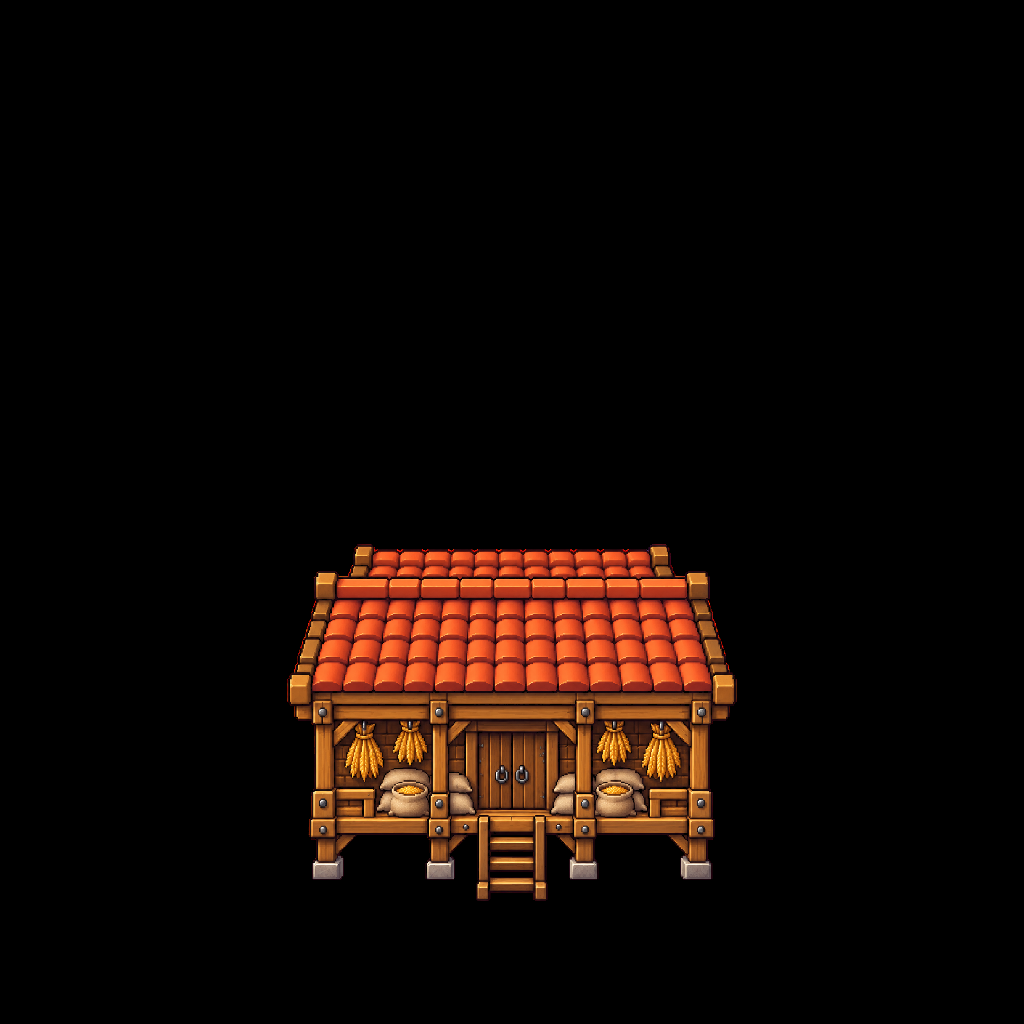
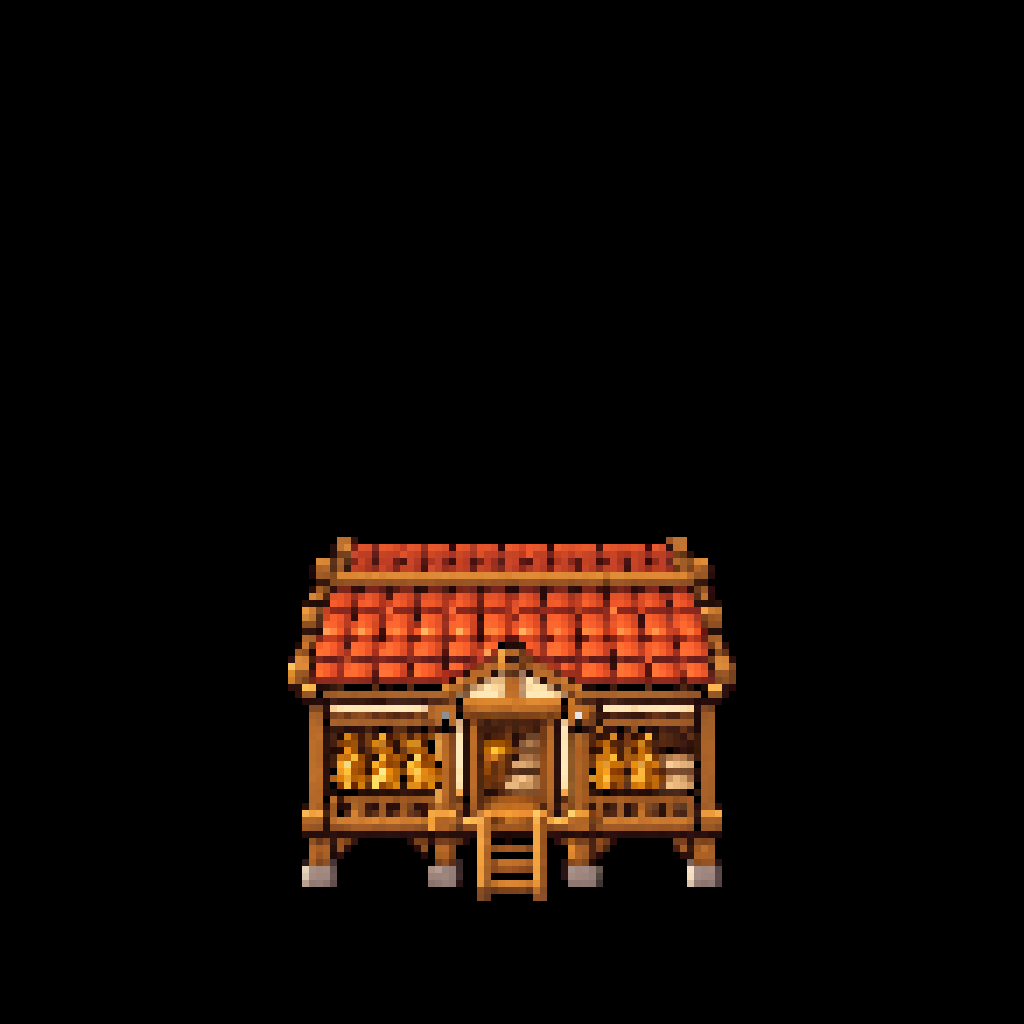
docs(art): 45-degree downward view; redraw granary and windmill

Changed region(s): [[0.2812, 0.5, 0.7188, 0.875]]

diff --git a/docs/art-review/g3e/buildings/make_prompts.py b/docs/art-review/g3e/buildings/make_prompts.py
@@ -39,7 +39,7 @@ GROUPS = {
         ('building_wheat_scarecrow', 'Bù Nhìn Gác (scarecrow watch tower, tower, TALL building but at most 520 px)',
          'a short wooden watch platform with a small straw roof and a big straw-hat scarecrow standing on it holding a sling, ladder at the front, sacks on the rail.'),
         ('building_wheat_windmill', 'Cối Xay Gió (windmill, economy)',
-         'a stone-and-timber windmill whose body is straight and upright, seen from a HIGH viewpoint looking DOWN: the viewer clearly sees the TOP of the windmill, i.e. the upper surface of its large rounded thatched cap/dome (a visible oval-ish roof plane with rows of straw, seen from above), not just its side profile and not a pointed tip seen sideways. Four cloth-sail blades are mounted on the front of the cap, frontal to the viewer (not turned). A door at the front center, a short stone base and flour sacks. Keep the facade straight-on; do not rotate or tilt the body.'),
+         'a stone-and-timber windmill whose body is straight and upright, seen with the camera pitched 45 degrees DOWN: the viewer clearly sees the TOP of the windmill, i.e. the upper surface of its large rounded thatched cap/dome (a visible oval-ish roof plane with rows of straw, seen from above), not just its side profile and not a pointed tip seen sideways. Four cloth-sail blades are mounted on the front of the cap, frontal to the viewer (not turned). A door at the front center, a short stone base and flour sacks. Keep the facade straight-on; do not rotate or tilt the body.'),
     ]),
 }
 

diff --git a/docs/art-review/g3e/buildings/wheat/building_wheat_windmill/prompt.md b/docs/art-review/g3e/buildings/wheat/building_wheat_windmill/prompt.md
@@ -4,7 +4,9 @@ BẮT BUỘC TRƯỚC KHI VẼ: mở và đọc `docs/ART_STYLE.md` — mục "G
 
 Create one isolated pixel-art building for Crowned Kingdoms: Cối Xay Gió (windmill, economy).
 Use the attached approved harvester house as the camera and style reference.
-STRICT straight-on FRONT VIEW with a high downward viewpoint, orthographic game-art styling.
+STRICT straight-on FRONT VIEW with the camera pitched 45 degrees DOWN (a 45-degree downward oblique view),
+orthographic game-art styling: the roof plane (or the top of a tower or windmill) and the front facade
+appear about EQUALLY tall because of the 45-degree pitch.
 Front facade faces the viewer exactly; horizontal beams, sills, foundation and eaves stay horizontal;
 vertical posts stay vertical; both front corners have the same height. No visible side walls.
 NO diagonal building rotation, NO isometric view, NO diamond ground base.
@@ -12,7 +14,7 @@ Roof ridge runs LEFT TO RIGHT, parallel to the facade. Show a broad front roof p
 smaller rear roof strip above the ridge, matching the reference's stylized roof geometry.
 Keep the house front-facing while revealing the roof; do not turn it sideways.
 Compact readable silhouette, cozy warm medieval pixel art, crisp square pixel clusters,
-upper-left lighting, dark material-colored outlines. a stone-and-timber windmill whose body is straight and upright, seen from a HIGH viewpoint looking DOWN: the viewer clearly sees the TOP of the windmill, i.e. the upper surface of its large rounded thatched cap/dome (a visible oval-ish roof plane with rows of straw, seen from above), not just its side profile and not a pointed tip seen sideways. Four cloth-sail blades are mounted on the front of the cap, frontal to the viewer (not turned). A door at the front center, a short stone base and flour sacks. Keep the facade straight-on; do not rotate or tilt the body. Theme: farm kingdom: warm bright wood, golden straw, clay tiles, grain sacks, wooden fences, gold and earth tones.
+upper-left lighting, dark material-colored outlines. a stone-and-timber windmill whose body is straight and upright, seen with the camera pitched 45 degrees DOWN: the viewer clearly sees the TOP of the windmill, i.e. the upper surface of its large rounded thatched cap/dome (a visible oval-ish roof plane with rows of straw, seen from above), not just its side profile and not a pointed tip seen sideways. Four cloth-sail blades are mounted on the front of the cap, frontal to the viewer (not turned). A door at the front center, a short stone base and flour sacks. Keep the facade straight-on; do not rotate or tilt the body. Theme: farm kingdom: warm bright wood, golden straw, clay tiles, grain sacks, wooden fences, gold and earth tones.
 Whole building visible, transparent background, padding around roof and feet.
 No people, text, labels, UI, watermark, blur or antialiasing.
 Concept preview only; native sprite size and pixel cleanup are a separate production step.

diff --git a/docs/art-review/g3e/buildings/wheat/building_wheat_reapers/prompt.md b/docs/art-review/g3e/buildings/wheat/building_wheat_reapers/prompt.md
@@ -4,7 +4,9 @@ BẮT BUỘC TRƯỚC KHI VẼ: mở và đọc `docs/ART_STYLE.md` — mục "G
 
 Create one isolated pixel-art building for Crowned Kingdoms: Đội Thợ Gặt (reapers, troop building).
 Use the attached approved harvester house as the camera and style reference.
-STRICT straight-on FRONT VIEW with a high downward viewpoint, orthographic game-art styling.
+STRICT straight-on FRONT VIEW with the camera pitched 45 degrees DOWN (a 45-degree downward oblique view),
+orthographic game-art styling: the roof plane (or the top of a tower or windmill) and the front facade
+appear about EQUALLY tall because of the 45-degree pitch.
 Front facade faces the viewer exactly; horizontal beams, sills, foundation and eaves stay horizontal;
 vertical posts stay vertical; both front corners have the same height. No visible side walls.
 NO diagonal building rotation, NO isometric view, NO diamond ground base.

diff --git a/docs/art-review/g3e/buildings/wheat/building_wheat_granary/prompt.md b/docs/art-review/g3e/buildings/wheat/building_wheat_granary/prompt.md
@@ -4,7 +4,9 @@ BẮT BUỘC TRƯỚC KHI VẼ: mở và đọc `docs/ART_STYLE.md` — mục "G
 
 Create one isolated pixel-art building for Crowned Kingdoms: Kho Thóc (granary, support).
 Use the attached approved harvester house as the camera and style reference.
-STRICT straight-on FRONT VIEW with a high downward viewpoint, orthographic game-art styling.
+STRICT straight-on FRONT VIEW with the camera pitched 45 degrees DOWN (a 45-degree downward oblique view),
+orthographic game-art styling: the roof plane (or the top of a tower or windmill) and the front facade
+appear about EQUALLY tall because of the 45-degree pitch.
 Front facade faces the viewer exactly; horizontal beams, sills, foundation and eaves stay horizontal;
 vertical posts stay vertical; both front corners have the same height. No visible side walls.
 NO diagonal building rotation, NO isometric view, NO diamond ground base.
